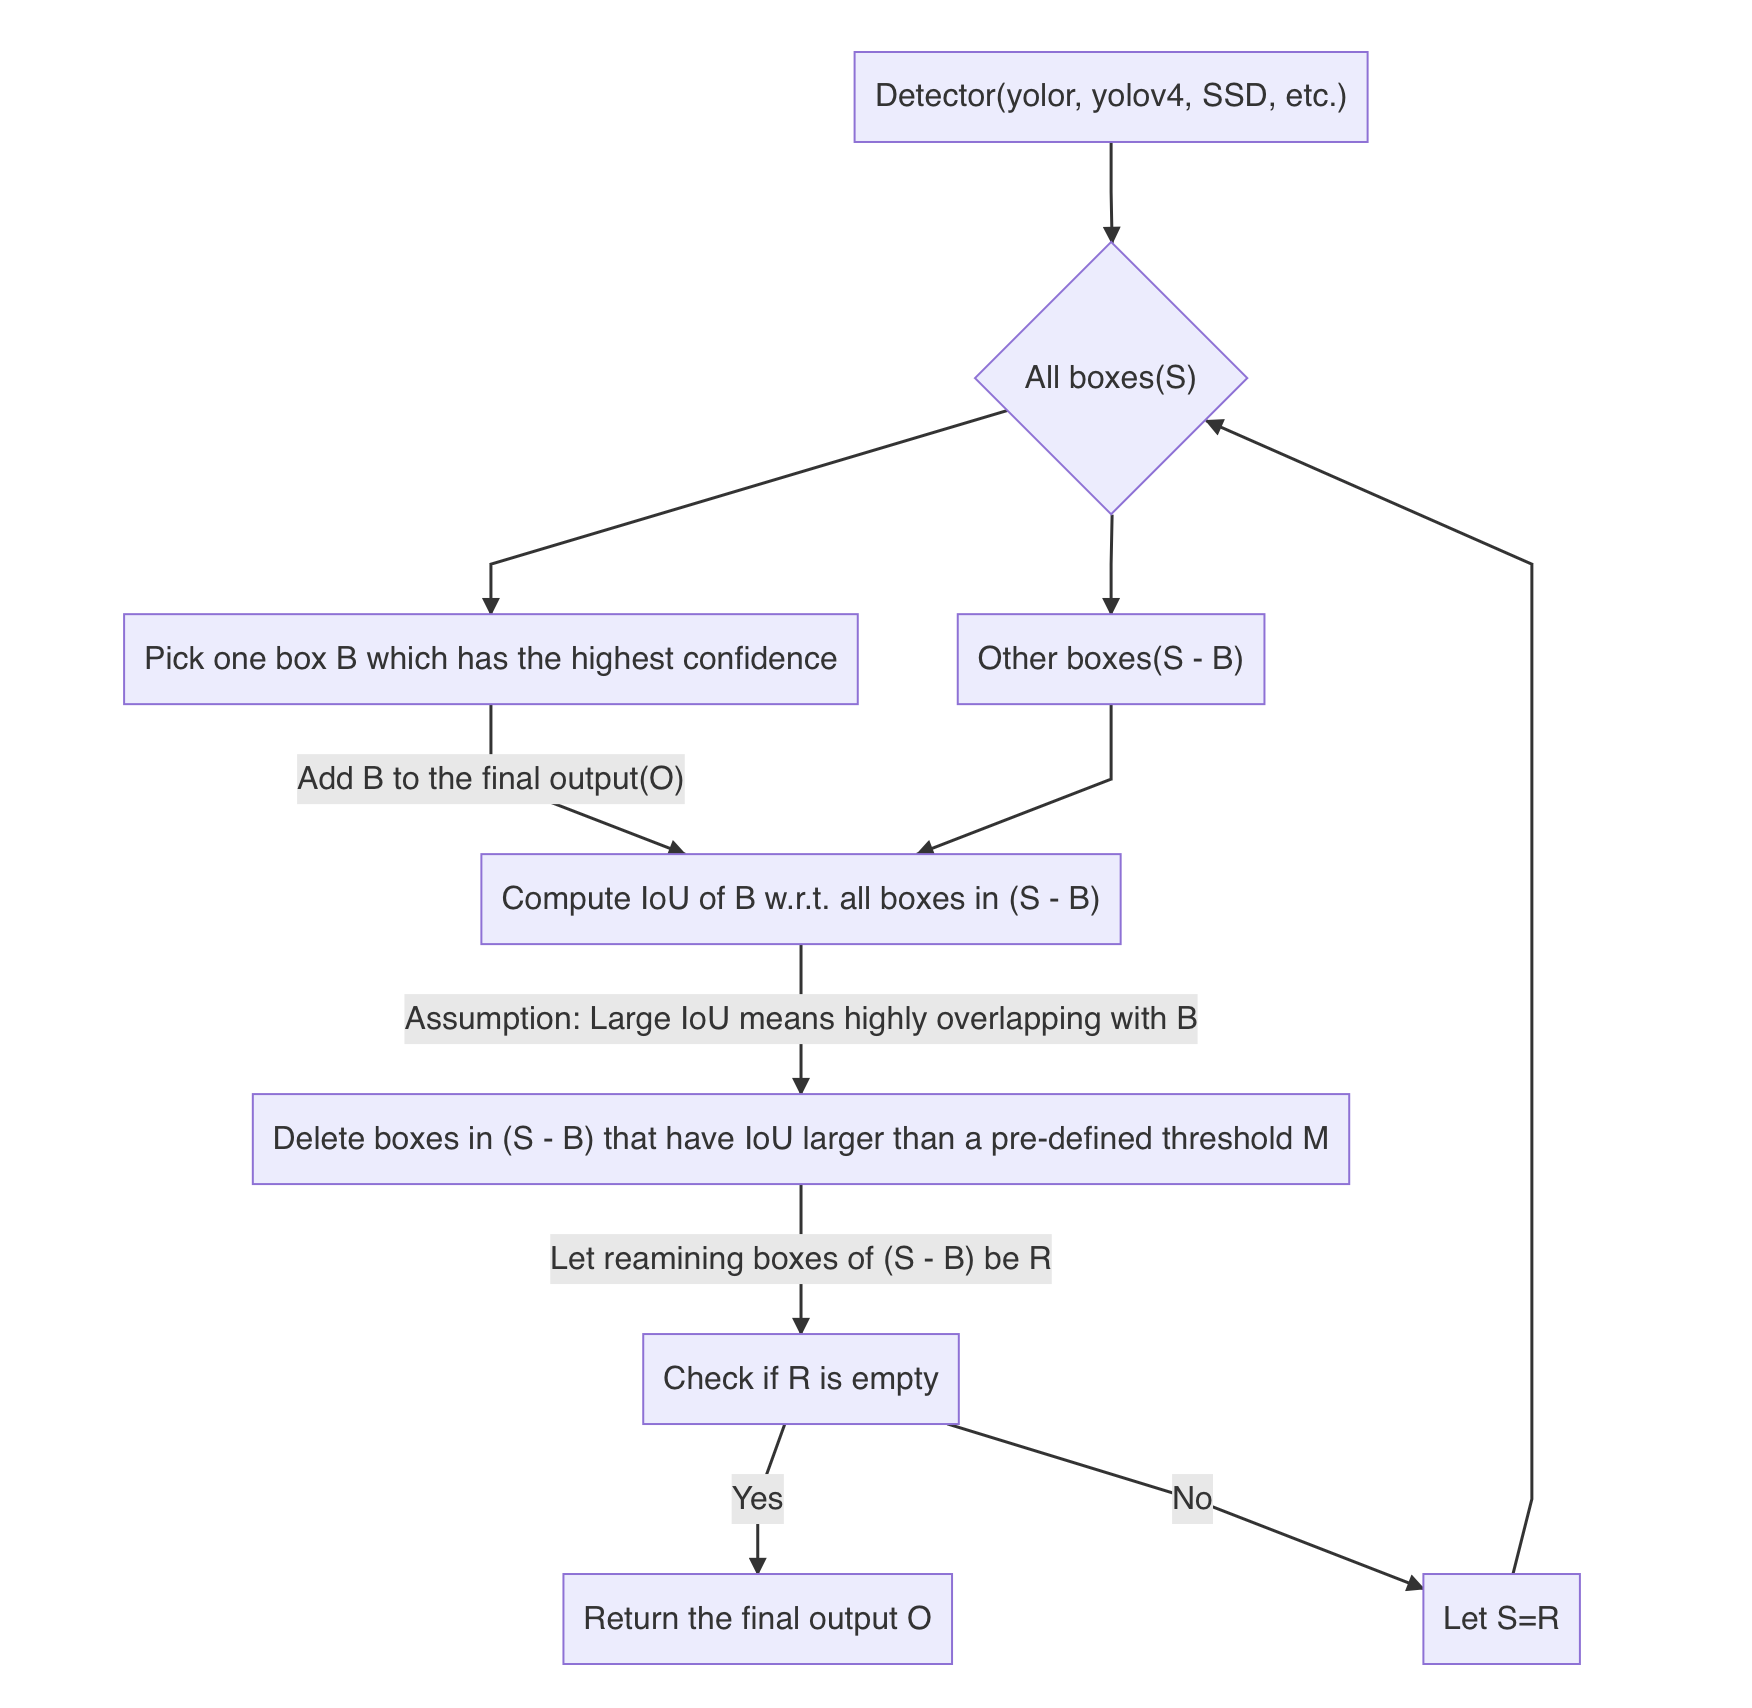
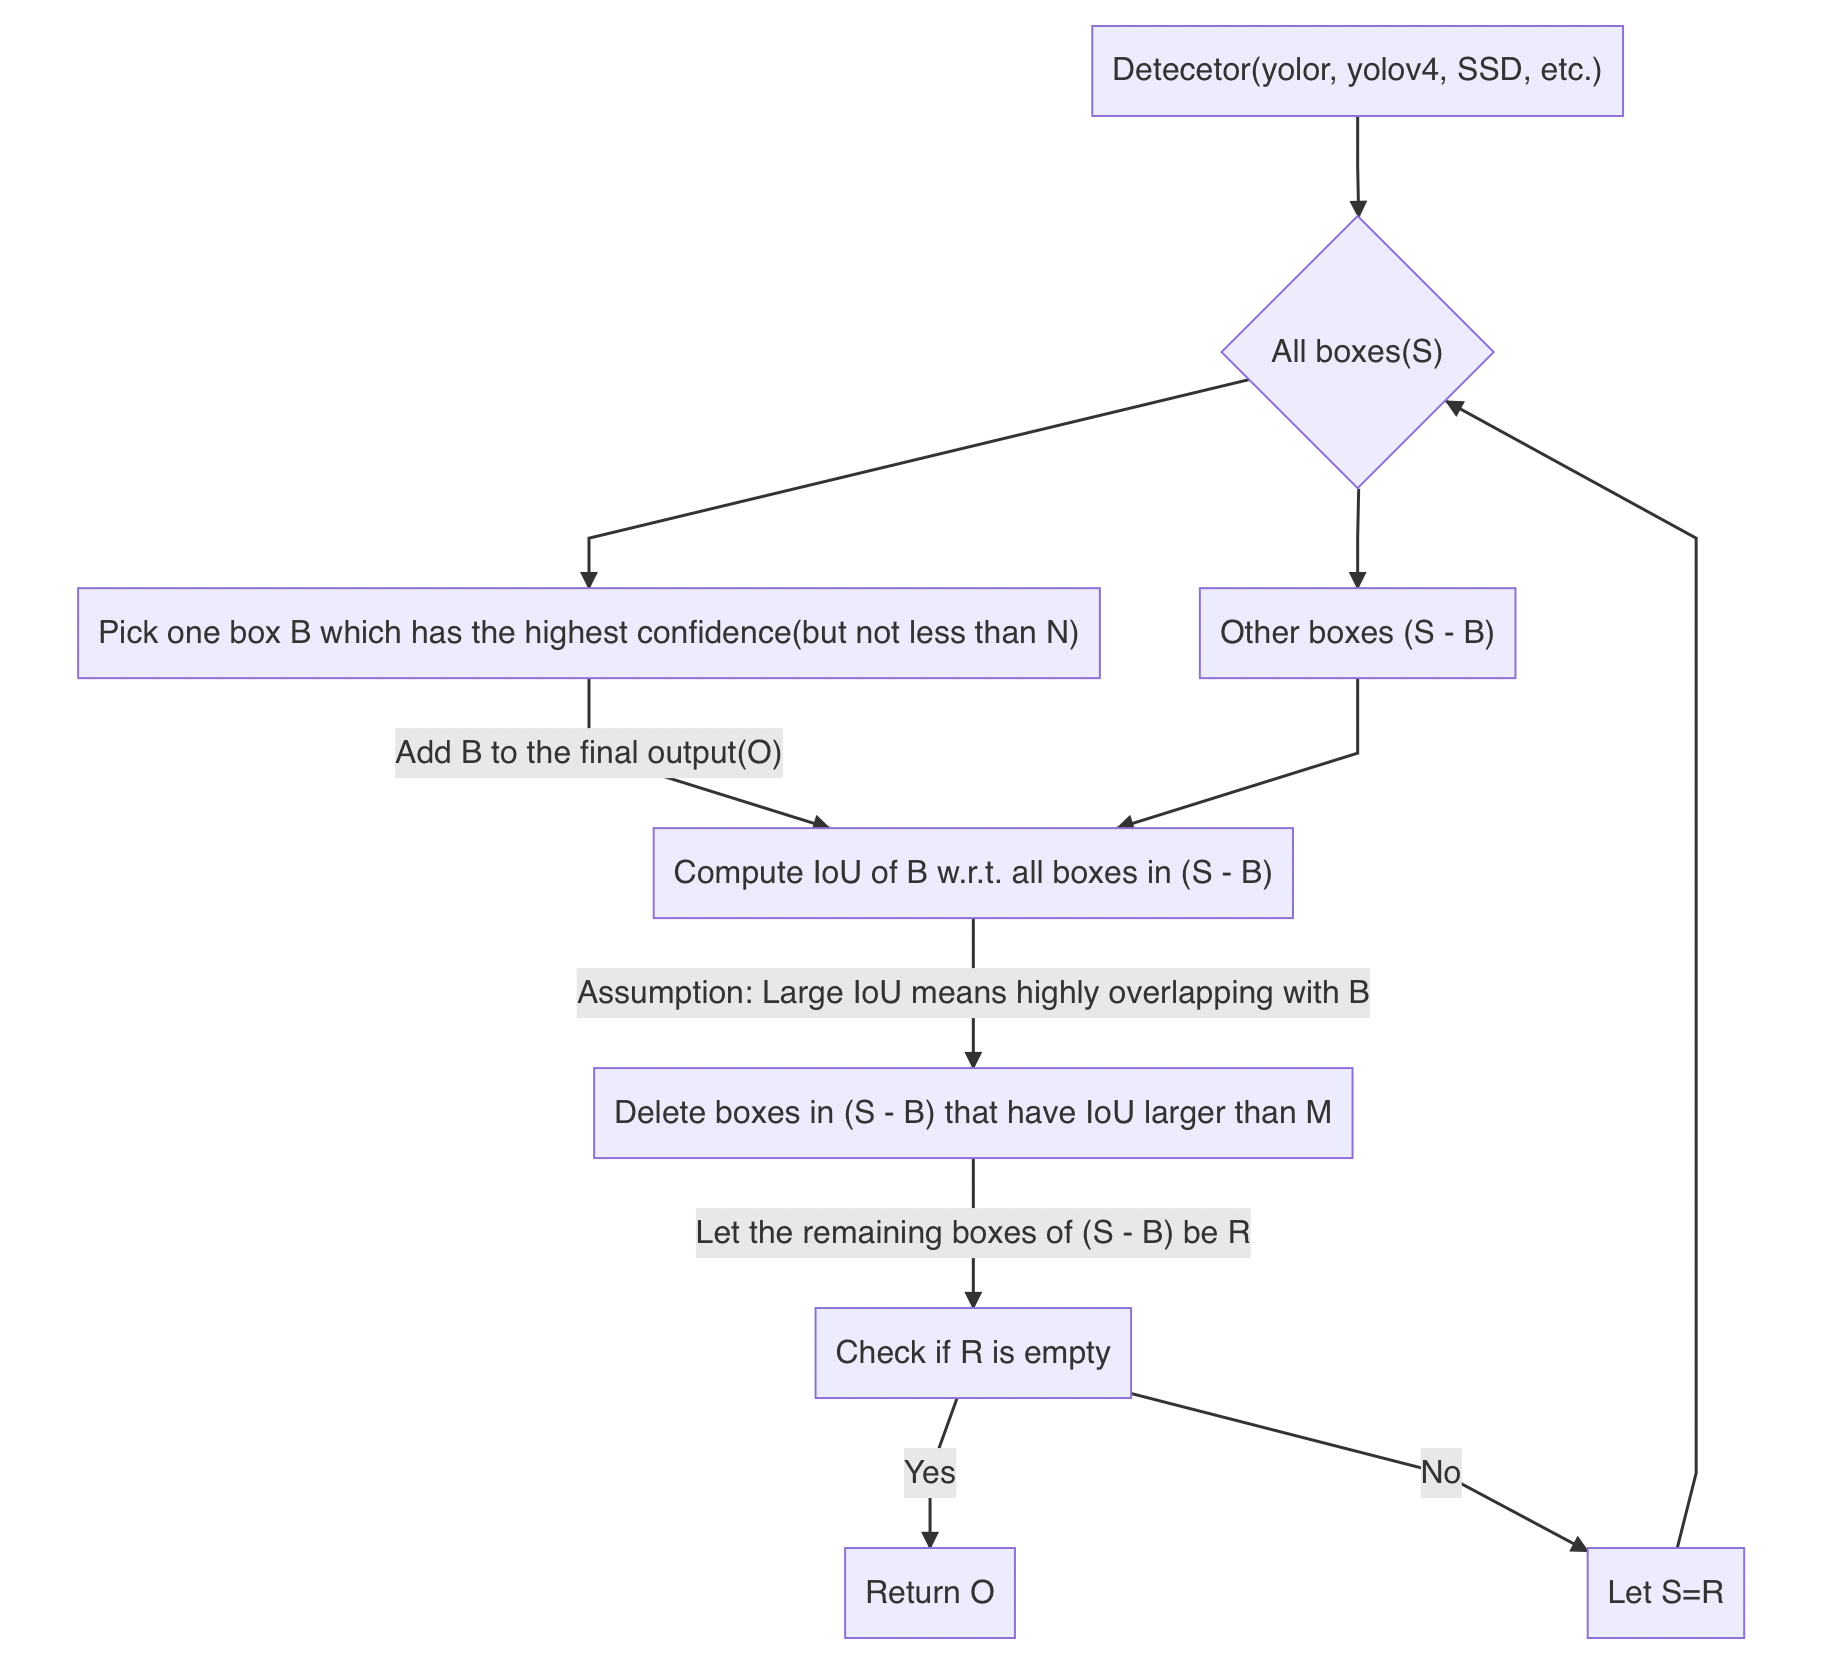
nms flowchart

diff --git a/pictures/nms_flowchart.md b/pictures/nms_flowchart.md
@@ -1,0 +1,13 @@
+```mermaid
+    graph TD
+        A["Detecetor(yolor, yolov4, SSD, etc.)"] --> B{"All boxes(S)"}
+        B --> C["Pick one box B which has the highest confidence(but not less than N)"]
+        B --> D["Other boxes (S - B)"]
+        C --> |"Add B to the final output(O)"|E["Compute IoU of B w.r.t. all boxes in (S - B)"]
+        D --> E
+        E --> |Assumption: Large IoU means highly overlapping with B|F["Delete boxes in (S - B) that have IoU larger than M"]
+        F --> |"Let the remaining boxes of (S - B) be R"|G[Check if R is empty]
+        G --> |Yes|H[Return O]
+        G --> |No|I[Let S=R]
+        I --> B
+```

diff --git a/ml/nms.md b/ml/nms.md
@@ -7,7 +7,7 @@ That means NMS is designed for images with objects not too close to each other.
 It's obvious tha NMS can't behave well for all cases.
 
 ## Method
-Maunally define a threshold `iou_thres=M`, `0<=M<=1`.
+Maunally define two thresholds `iou_thres=M`, `0<=M<=1` and `conf_thres=N`, `0<=N<=1`.
 > **Let ``A`` and ``B`` be two bounding boxes. ``IoU(A,B) >(=) M`` means ``A`` and ``B`` are highly overlapping.**
 
 <p align="vallina nms">
